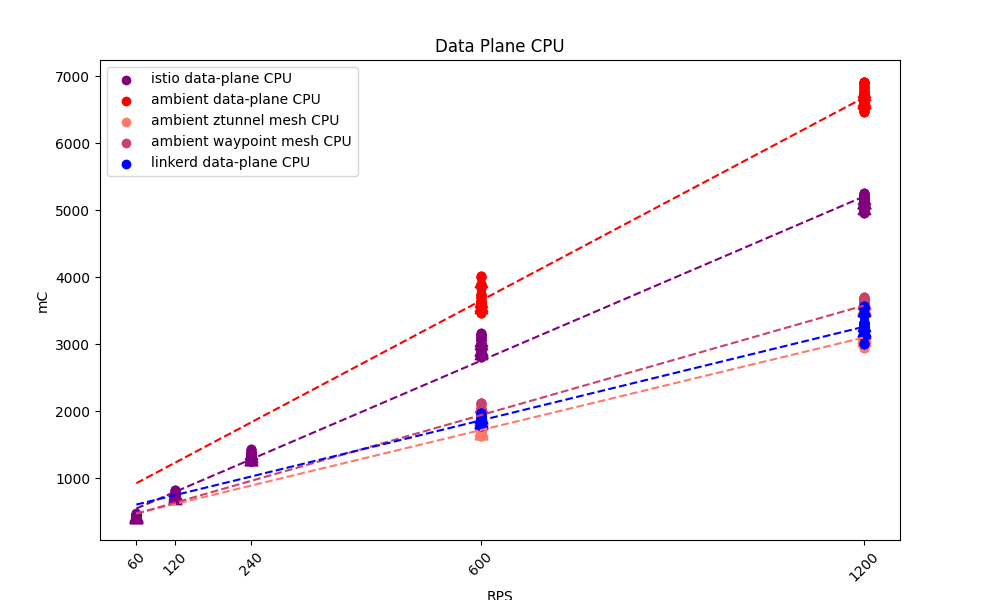
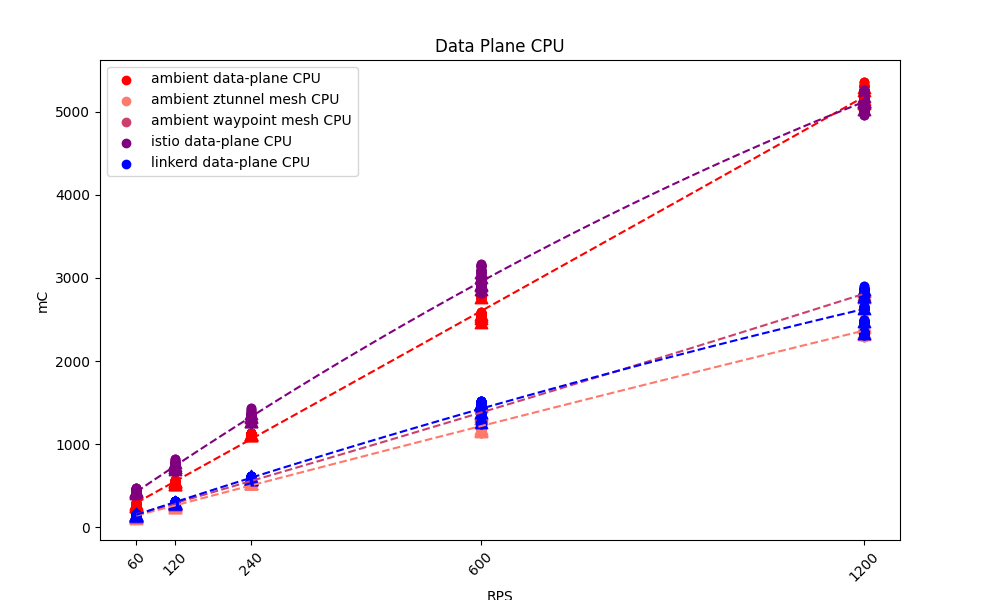
Better graphs

diff --git a/linkerd.io/content/blog/2025/0512-behind-the-great-sidecar-debate/index.md b/linkerd.io/content/blog/2025/0512-behind-the-great-sidecar-debate/index.md
@@ -219,8 +219,8 @@ memory _by far_ than either Linkerd or Istio Ambient:
 
 ![Three Meshes, Data Plane Memory](all-three-mem.png)
 
-I was _extremely_ surprised to find that Istio Ambient used more CPU than
-Istio Legacy:
+I was _extremely_ surprised to find how close Istio Ambient and Istio Legacy
+were on CPU usage:
 
 ![Three Meshes, Data Plane CPU](all-three-CPU.png)
 
